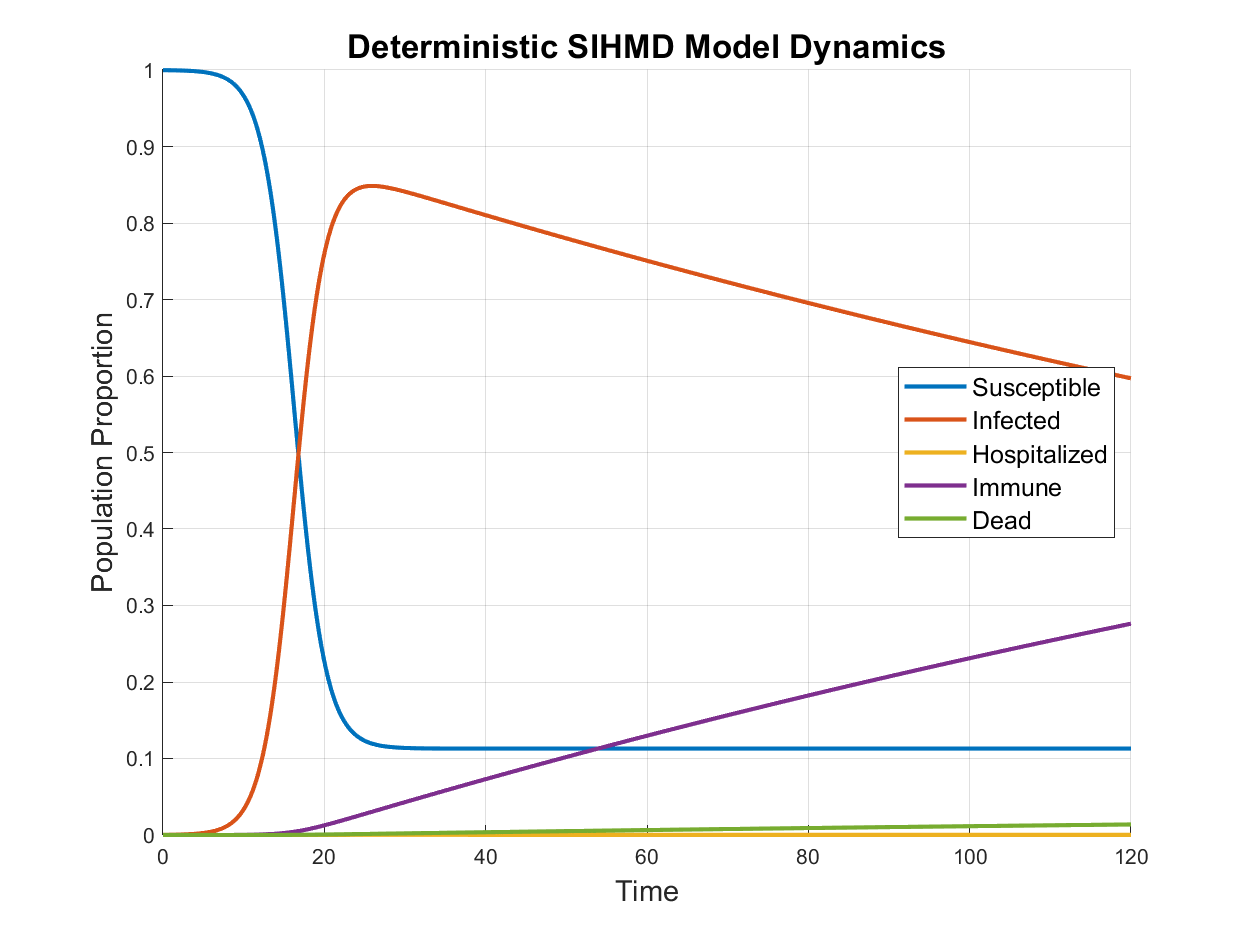
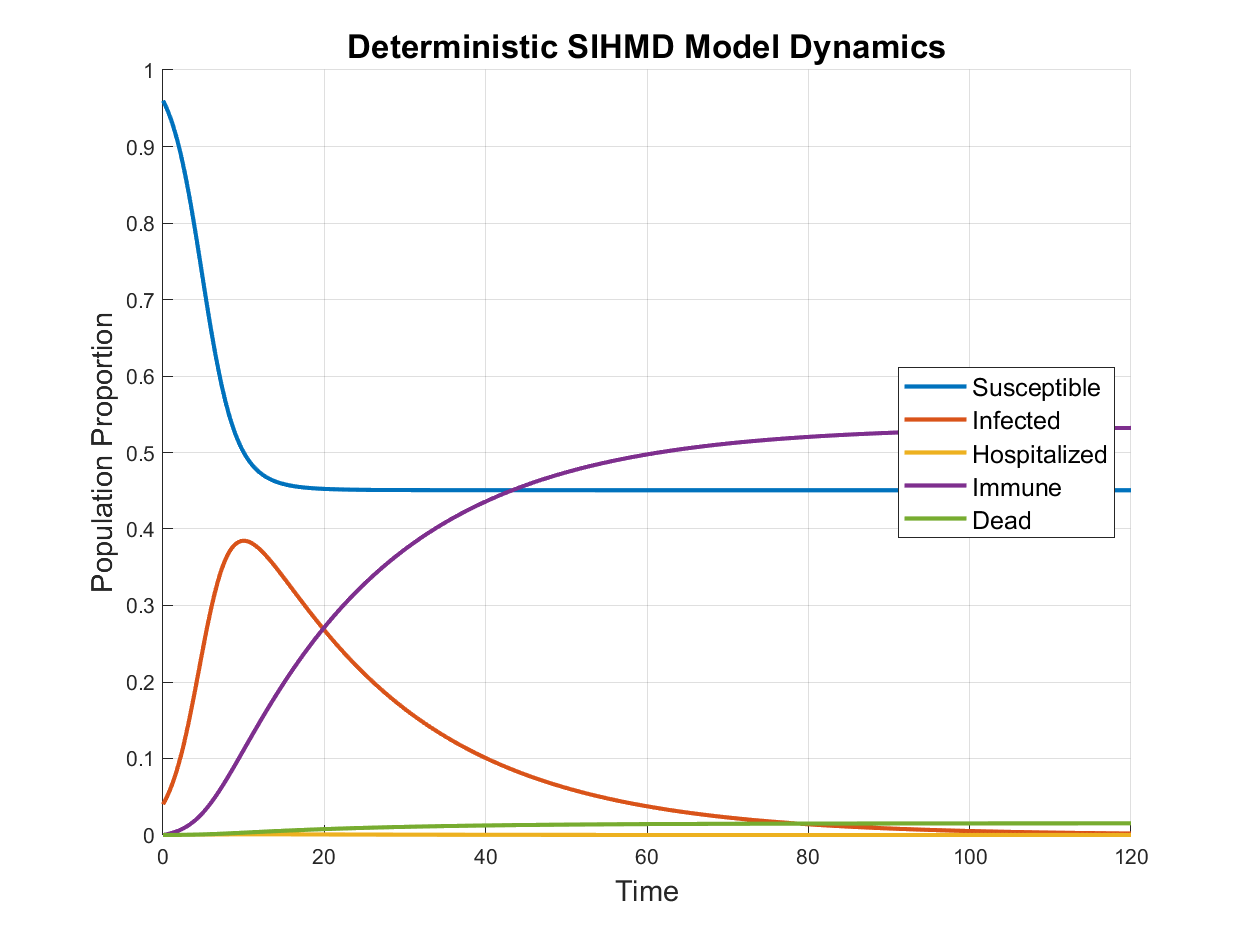
Running simulations for new figures

diff --git a/SIHMD.m b/SIHMD.m
@@ -1,21 +1,21 @@
-function sihmd_multiple_populations()
+function SIHMD()
     % Define model parameters structure
     params = struct(...
-        'beta', .586, ...    % infection rate (β > 0)
-        'gamma', 0.07, ...   % I transition rate (γ > 0)
+        'beta', 1.0, ...    % infection rate (β > 0)
+        'gamma', 0.5, ...   % I transition rate (γ > 0)
         'alpha', 1.0, ...   % H transition rate (α > 0)
         'pI', 1.0, ...      % probability of S to I (p_I in (0,1])
-        'pIS', 0.944624, ... % probability of I to S
-        'pIH', 0.003276, ...    % probability of I to H
-        'pIM', 0.05, ...     % probability of I to M
-        'pID', 0.0021, ... % probability of I to D
+        'pIS', 0.9, ... % probability of I to S
+        'pIH', 0.005, ...    % probability of I to H
+        'pIM', 0.093, ...     % probability of I to M
+        'pID', 0.002, ... % probability of I to D
         'pHS', 0.25, ...    % probability of H to S
         'pHM', 0.6, ...     % probability of H to M
         'pHD', 0.15, ...    % probability of H to D
         'tmax', 120, ...     % simulation end time
-        's0', 0.99978, ...      % initial susceptible proportion
-        'i0', 0.0002, ...      % initial infected proportion
-        'h0', 0.00002, ...      % initial hospitalized proportion
+        's0', 0.96, ...      % initial susceptible proportion
+        'i0', 0.04, ...      % initial infected proportion
+        'h0', 0.0, ...      % initial hospitalized proportion
         'm0', 0.0, ...      % initial immune proportion
         'd0', 0.0 ...       % initial dead proportion
     );
@@ -29,7 +29,7 @@ function sihmd_multiple_populations()
     end
 
     % Population sizes to test
-    N_values = [3235];
+    N_values = [316 1000 3162 10000];
 
     % Input validation
     if any(N_values <= 0)
@@ -378,17 +378,17 @@ end
 
 function plot_comparison(results, N_values, det_result, params)
     % Create comparison plots including deterministic solution
-    
+
     % Create two figures
     figure('Position', [100, 100, 1920, 1440]);  % Original comparison plots
-    
+
     % Use tiledlayout for better spacing control
     t = tiledlayout(3, 2, 'TileSpacing', 'compact', 'Padding', 'compact');
-    
+
     % Colors for different population sizes and deterministic
     colors = {'#0072BD', '#77AC30', '#A2142F', '#EDB120'}; % More distinctive colors
     det_color = '#7E2F8E';  % Purple for deterministic
-    
+
     % Plot 1: Susceptible Proportion Over Time
     nexttile;
     hold on;
@@ -404,7 +404,7 @@ function plot_comparison(results, N_values, det_result, params)
     title('Susceptible Proportion Over Time', 'FontSize', 16);
     grid on;
     xlim([0, params.tmax]);
-    
+
     % Plot 2: Infected Proportion Over Time
     nexttile;
     hold on;
@@ -417,7 +417,7 @@ function plot_comparison(results, N_values, det_result, params)
     title('Infected Proportion Over Time', 'FontSize', 16);
     grid on;
     xlim([0, params.tmax]);
-    
+
     % Plot 3: Hospitalized Proportion Over Time
     nexttile;
     hold on;
@@ -430,7 +430,7 @@ function plot_comparison(results, N_values, det_result, params)
     title('Hospitalized Proportion Over Time', 'FontSize', 16);
     grid on;
     xlim([0, params.tmax]);
-    
+
     % Plot 4: Immune Proportion Over Time
     nexttile;
     hold on;
@@ -443,7 +443,7 @@ function plot_comparison(results, N_values, det_result, params)
     title('Immune Proportion Over Time', 'FontSize', 16);
     grid on;
     xlim([0, params.tmax]);
-    
+
     % Plot 5: Dead Proportion Over Time
     nexttile;
     hold on;
@@ -456,12 +456,12 @@ function plot_comparison(results, N_values, det_result, params)
     title('Dead Proportion Over Time', 'FontSize', 16);
     grid on;
     xlim([0, params.tmax]);
-    
+
     % Add a single legend below all plots
     lgd = legend(plot_handles, [arrayfun(@(x) sprintf('N=%d', x), N_values, 'UniformOutput', false), {'Deterministic'}], ...
         'Orientation', 'horizontal', 'Location', 'southoutside', 'FontSize', 12);
     lgd.Layout.Tile = 'south';
-    
+
     % Add parameter display including R0
     param_text = sprintf('R₀=%.2f, β=%.2f, γ=%.2f, α=%.2f\np_I=%.2f, p_IS=%.2f, p_IH=%.2f, p_IM=%.2f, p_ID=%.2f\np_HS=%.2f, p_HM=%.2f, p_HD=%.2f', ...
         det_result.R0, params.beta, params.gamma, params.alpha, ...
@@ -473,21 +473,21 @@ function plot_comparison(results, N_values, det_result, params)
         'EdgeColor', 'none', ...
         'HorizontalAlignment', 'left', ...
         'VerticalAlignment', 'middle');
-    
+
     % Save the figure
     saveas(gcf, 'SIHMD_simulation_results.png');
-    
+
     % Create new figure for deterministic curves only
     figure('Position', [100, 100, 800, 600]);
     hold on;
-    
+
     % Plot all deterministic curves together
     plot(det_result.T, det_result.S_prop, 'LineWidth', 2, 'DisplayName', 'Susceptible');
     plot(det_result.T, det_result.I_prop, 'LineWidth', 2, 'DisplayName', 'Infected');
     plot(det_result.T, det_result.H_prop, 'LineWidth', 2, 'DisplayName', 'Hospitalized');
     plot(det_result.T, det_result.M_prop, 'LineWidth', 2, 'DisplayName', 'Immune');
     plot(det_result.T, det_result.D_prop, 'LineWidth', 2, 'DisplayName', 'Dead');
-    
+
     % Customize the plot
     xlabel('Time', 'FontSize', 14);
     ylabel('Population Proportion', 'FontSize', 14);
@@ -495,14 +495,44 @@ function plot_comparison(results, N_values, det_result, params)
     grid on;
     xlim([0, params.tmax]);
     legend('Location', 'east', 'FontSize', 12);
-    
+
     % Add R0 and parameters text
     text(0.02, -0.15, sprintf('R₀=%.2f, β=%.2f, γ=%.2f, α=%.2f', det_result.R0, params.beta, params.gamma, params.alpha), ...
         'Units', 'normalized', 'FontSize', 12);
-    
+
     % Save the deterministic plot
     saveas(gcf, 'SIHMD_deterministic_only.png');
-    
+
+    % --- Additional: Plot only Infected on its own figure ---
+    figure('Position', [200, 200, 900, 500]);
+    hold on;
+    for i = 1:length(results)
+        plot(results{i}.T, results{i}.I_prop, 'Color', colors{i}, 'LineWidth', 1.8, 'DisplayName', sprintf('N=%d', N_values(i)));
+    end
+    plot(det_result.T, det_result.I_prop, '--', 'Color', det_color, 'LineWidth', 2.2, 'DisplayName', 'Deterministic');
+    xlabel('Time', 'FontSize', 14);
+    ylabel('Proportion Infected', 'FontSize', 14);
+    title('Infected Proportion Over Time', 'FontSize', 16);
+    grid on;
+    xlim([0, params.tmax]);
+    legend('Location', 'northeast', 'FontSize', 12);
+    saveas(gcf, 'SIHMD_infected_only.png');
+
+    % --- Additional: Plot only Hospitalized on its own figure ---
+    figure('Position', [250, 250, 900, 500]);
+    hold on;
+    for i = 1:length(results)
+        plot(results{i}.T, results{i}.H_prop, 'Color', colors{i}, 'LineWidth', 1.8, 'DisplayName', sprintf('N=%d', N_values(i)));
+    end
+    plot(det_result.T, det_result.H_prop, '--', 'Color', det_color, 'LineWidth', 2.2, 'DisplayName', 'Deterministic');
+    xlabel('Time', 'FontSize', 14);
+    ylabel('Proportion Hospitalized', 'FontSize', 14);
+    title('Hospitalized Proportion Over Time', 'FontSize', 16);
+    grid on;
+    xlim([0, params.tmax]);
+    legend('Location', 'northeast', 'FontSize', 12);
+    saveas(gcf, 'SIHMD_hospitalized_only.png');
+
     % Print summary statistics
     fprintf('\n=== SIMULATION SUMMARY ===\n');
     fprintf('Population Size | Peak Infected | Peak Time | s(∞) | i(∞) | h(∞) | m(∞) | d(∞)\n');
@@ -515,7 +545,7 @@ function plot_comparison(results, N_values, det_result, params)
     fprintf('%15s | %13.4f | %9.2f | %5.3f | %5.3f | %5.3f | %5.3f | %5.3f\n', ...
         'Deterministic', det_result.peak_infected_prop, det_result.peak_time, ...
         det_result.s_inf, det_result.i_inf, det_result.h_inf, det_result.m_inf, det_result.d_inf);
-    
+
     % Print asymptotic analysis
     fprintf('\n=== ASYMPTOTIC ANALYSIS ===\n');
     fprintf('R₀ = %.4f\n', det_result.R0);

diff --git a/sihmd_variance_error_bars.m b/sihmd_variance_error_bars.m
@@ -1,13 +1,13 @@
 function sihmd_variance_error_bars() 
     %% Model Parameters
     constants.max_t = 30;
-    constants.susceptible_event_rate = 1.3; 
+    constants.susceptible_event_rate = 1.5; 
     constants.s_i_prob = 1;
 
-    constants.infected_event_rate = 1;
-    constants.i_m_prob = 0.2; 
-    constants.i_d_prob = 0.010175;
-    constants.i_h_prob = 0.04;
+    constants.infected_event_rate = 0.5;
+    constants.i_m_prob = 0.095; 
+    constants.i_d_prob = 0.005;
+    constants.i_h_prob = 0.005;
     constants.i_s_prob = 1 - constants.i_m_prob - constants.i_h_prob - constants.i_d_prob;
     
     constants.hospitalized_event_rate = 1; 
@@ -113,8 +113,8 @@ function data = simulate_ipc(S, I, H, M, D, constants, data)
     h_clock = constants.hospitalized_event_rate * nh;
     master_clock = s_clock + i_clock + h_clock;
 
-    % Base case for recursion: end if time limit is reached or no events can occur
-    if data.T(end) >= constants.max_t || master_clock == 0
+    % Base case for recursion: end if time limit is reached, no events can occur, or all compartments are empty
+    if data.T(end) >= constants.max_t || master_clock == 0 || (ns == 0 && ni == 0 && nh == 0 && numel(M) == 0 && numel(D) == 0)
         if data.T(end) < constants.max_t
             data.T(end+1) = constants.max_t;
             % Append last known value to the end to make interpolation flat

diff --git a/SIHMDCaseStudy/sihmd_dynamic_parameter.m b/SIHMDCaseStudy/sihmd_dynamic_parameter.m
@@ -17,8 +17,8 @@ function sihmd_dynamic_parameter()
         'pHM', 0.6, ...     % probability of H to M
         'pHD', 0.15, ...    % probability of H to D
         'tmax', 30, ...     % simulation end time
-        's0', 0.9986, ...      % initial susceptible proportion
-        'i0', 0.0014, ...      % initial infected proportion
+        's0', 0.98, ...      % initial susceptible proportion
+        'i0', 0.02, ...      % initial infected proportion
         'h0', 0.0, ...      % initial hospitalized proportion
         'm0', 0.0, ...      % initial immune proportion
         'd0', 0.0);     % initial dead proportion
